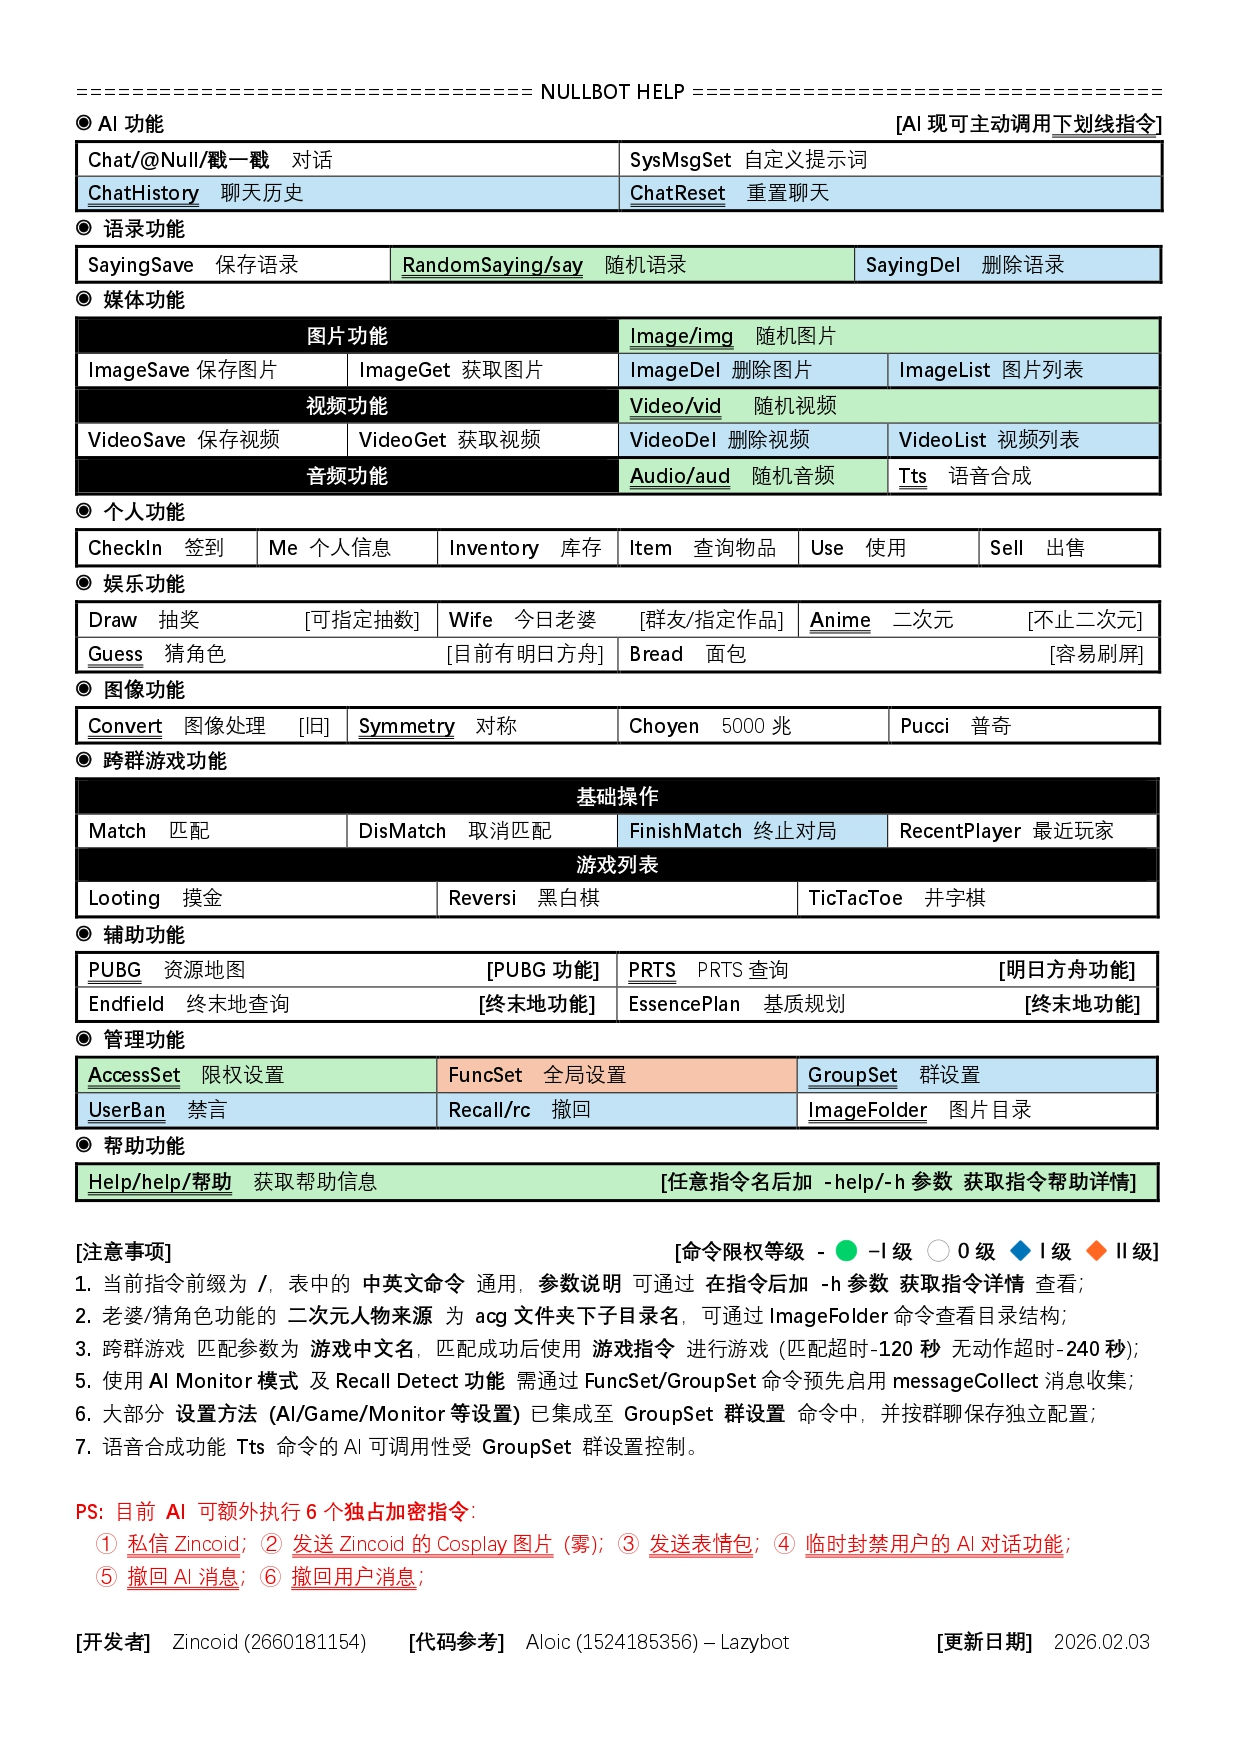
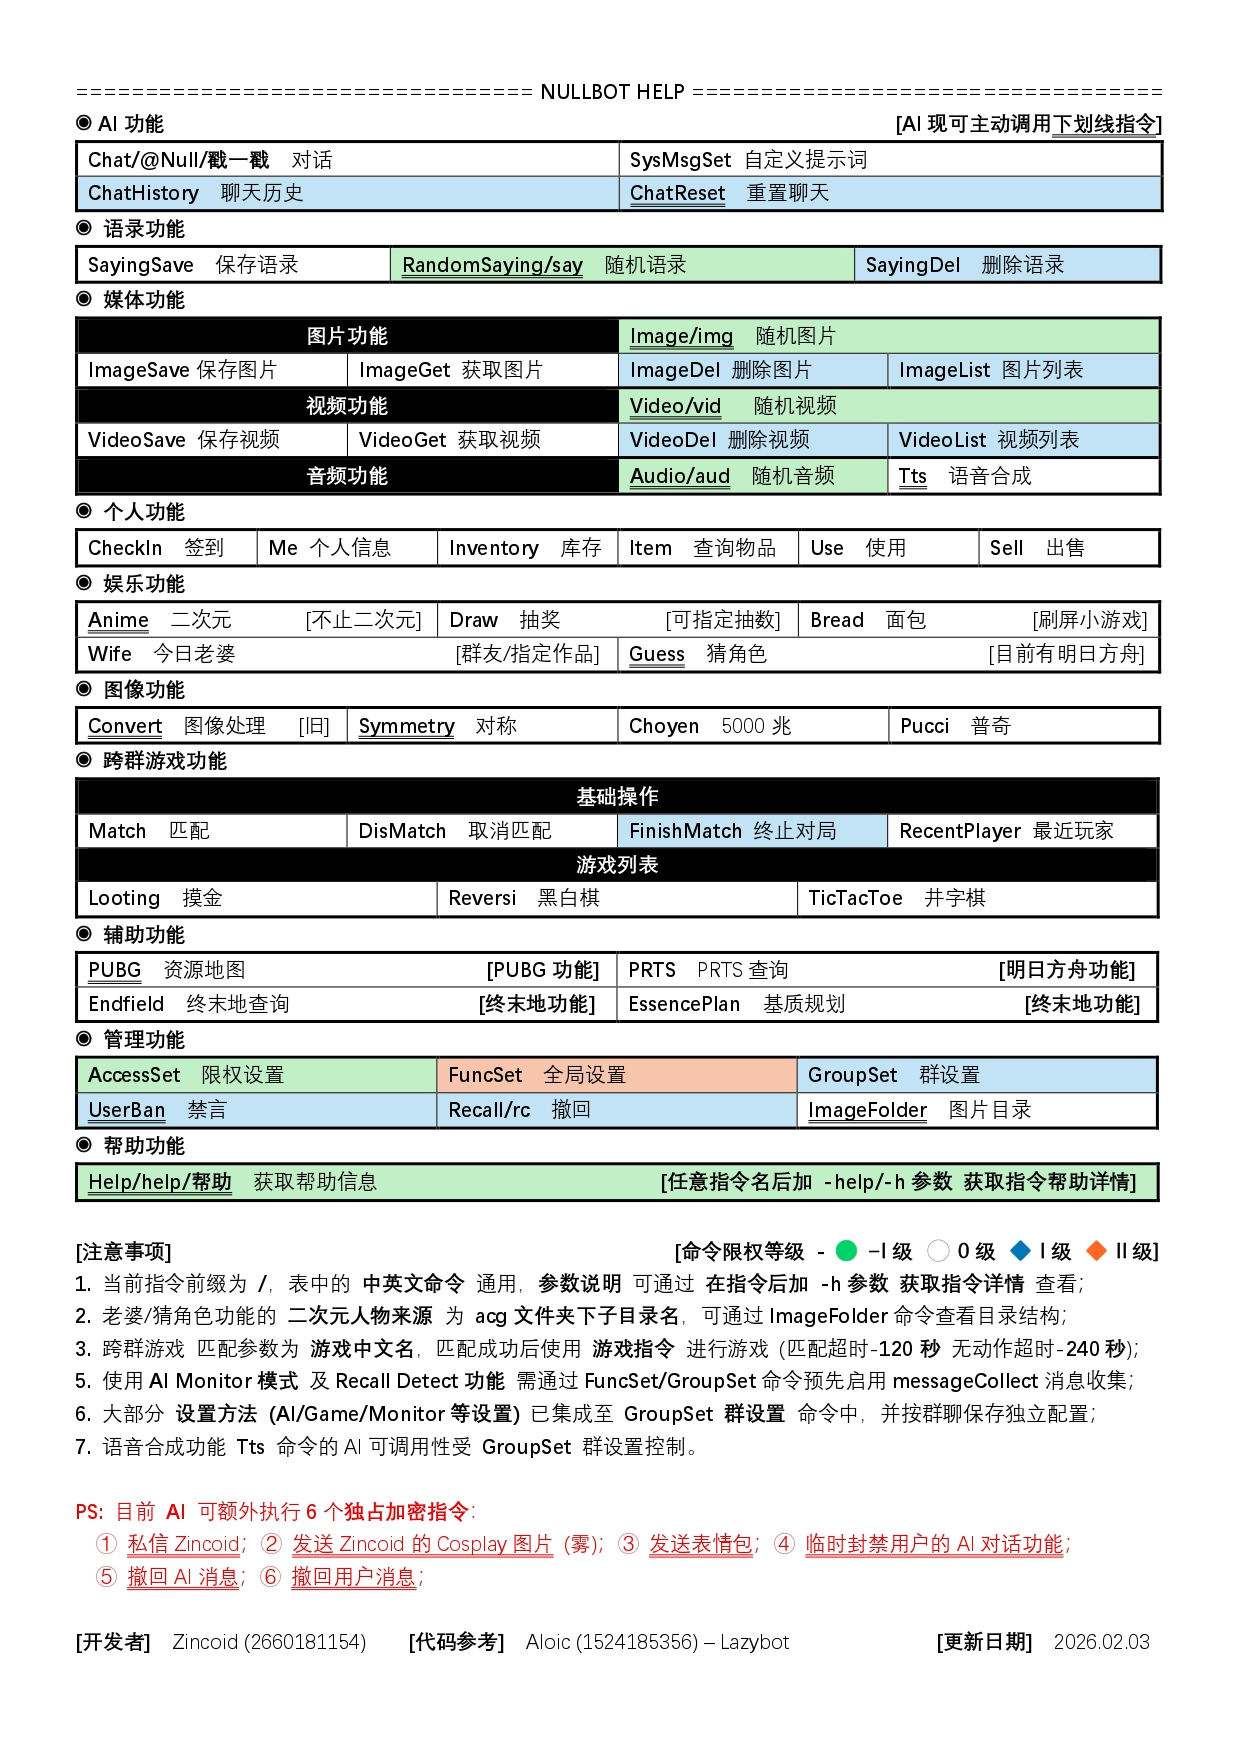
NullBot 后端SpringBoot工程

diff --git a/src/main/java/org/bot/nullbot/component/ai/DeepSeekClient.java b/src/main/java/org/bot/nullbot/component/ai/DeepSeekClient.java
@@ -56,16 +56,18 @@ public class DeepSeekClient
         Set<String> commands = new HashSet<>(Arrays.asList(
                 // 普通命令
                 "aud", "vid", "img", "say",
-                "ChatHistory", "ChatReset",
-                "AccessSet", "GroupSet", "UserBan",
-                "Help", "ImageFolder", "PUBG", "PRTS",
+                "ChatReset", "UserBan",
+                "Help", "ImageFolder", "PUBG",
                 "Anime", "Guess",
 
-                // 图片生成
-                "Convert", "Symmetry",
+                // "aud", "vid", "img", "say",
+                // "ChatHistory", "ChatReset",
+                // "AccessSet", "GroupSet", "UserBan",
+                // "Help", "ImageFolder", "PUBG", "PRTS",
+                // "Anime", "Guess",
 
-                // 语音回复
-                "Tts",
+                // 合成命令
+                "Convert", "Symmetry", "Tts",
 
                 // 加密命令
                 "eb0f8545", "4ed1314d", "65275d24",

diff --git a/ChangeLog.md b/ChangeLog.md
@@ -402,4 +402,5 @@
 - 优化 PRTS 指令 - 取消算法勾选；
 - 增强 Endfield 指令 - 存在多个匹配项时输出列表且支持 TXT 文件读取发送；
 - 调整 资源文件存储路径和读取方式 - 将 AI表情文件 和 游戏攻略文件 移至 resource 目录；
-- 优化 restartViaJar 功能相关代码 并 增强 Restart 指令。
+- 优化 restartViaJar 功能相关代码 并 增强 Restart 指令；
+- 移除 AI 对部分指令的可执行性。